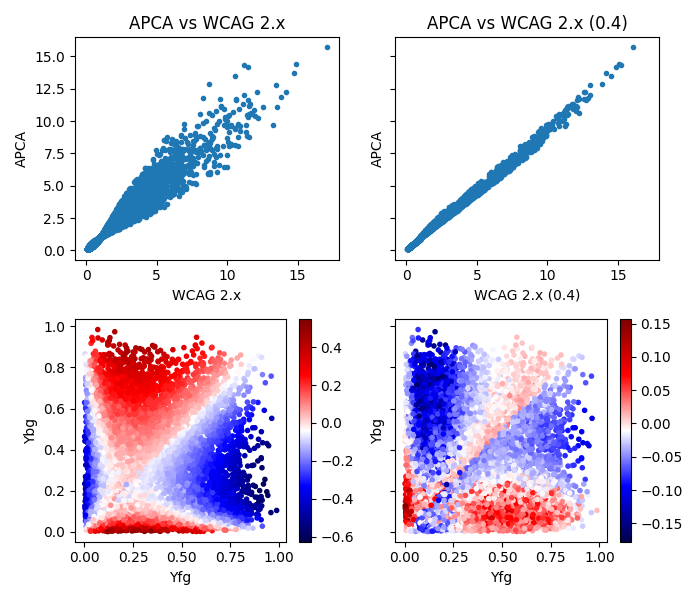
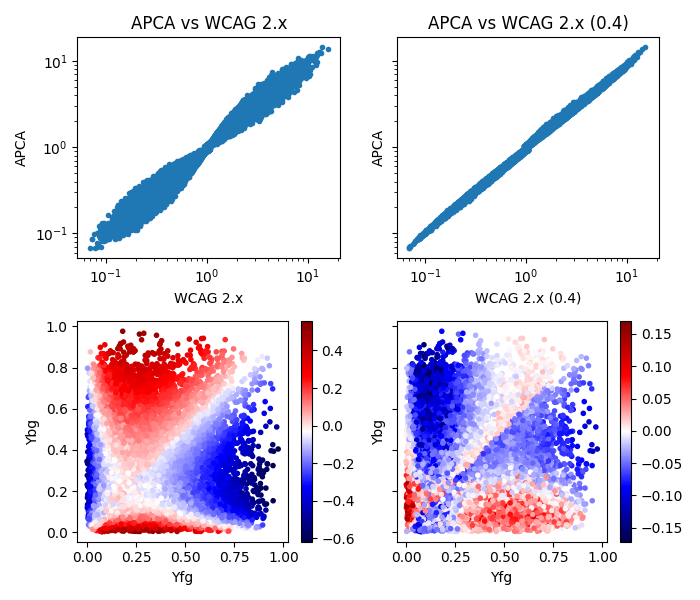
use log scales for contrast comparison plots

diff --git a/plots/contrast_comparison.py b/plots/contrast_comparison.py
@@ -63,6 +63,8 @@ if __name__ == '__main__':
 	axes[0][0].scatter(wcag, apca, **options)
 	axes[0][0].set_xlabel('WCAG 2.x')
 	axes[0][0].set_ylabel('APCA')
+	axes[0][0].set_xscale('log')
+	axes[0][0].set_yscale('log')
 
 	p2 = axes[1][0].scatter(wcag_yfg, wcag_ybg, c=np.log(apca / wcag), **options)
 	axes[1][0].set_xlabel('Yfg')
@@ -74,6 +76,8 @@ if __name__ == '__main__':
 	axes[0][1].scatter(wcag4, apca, **options)
 	axes[0][1].set_xlabel('WCAG 2.x (0.4)')
 	axes[0][1].set_ylabel('APCA')
+	axes[0][1].set_xscale('log')
+	axes[0][1].set_yscale('log')
 
 	p4 = axes[1][1].scatter(wcag_yfg, wcag_ybg, c=np.log(apca / wcag4), **options)
 	axes[1][1].set_xlabel('Yfg')
